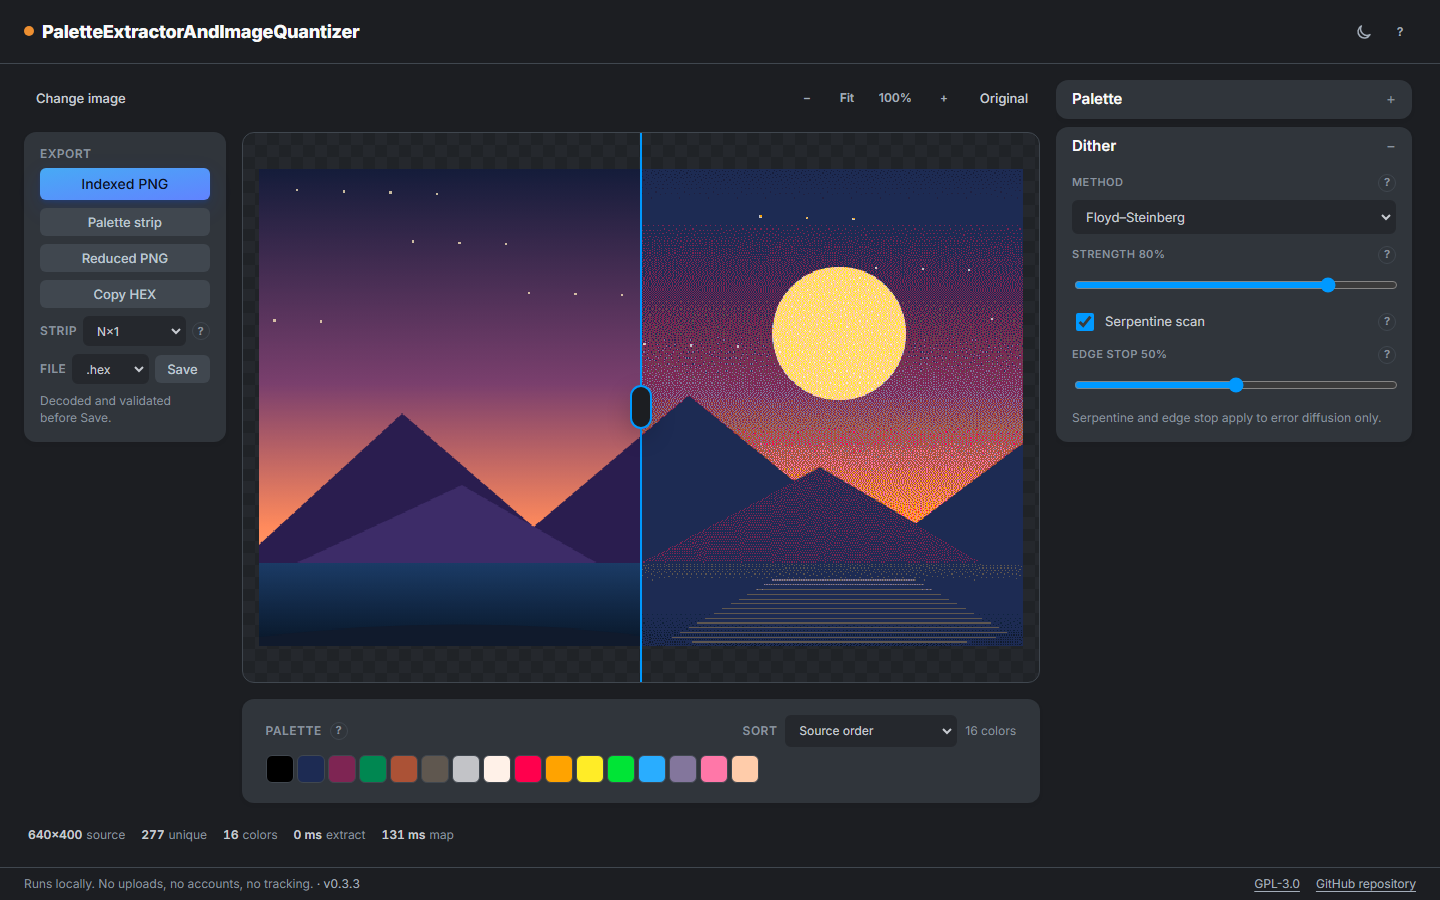
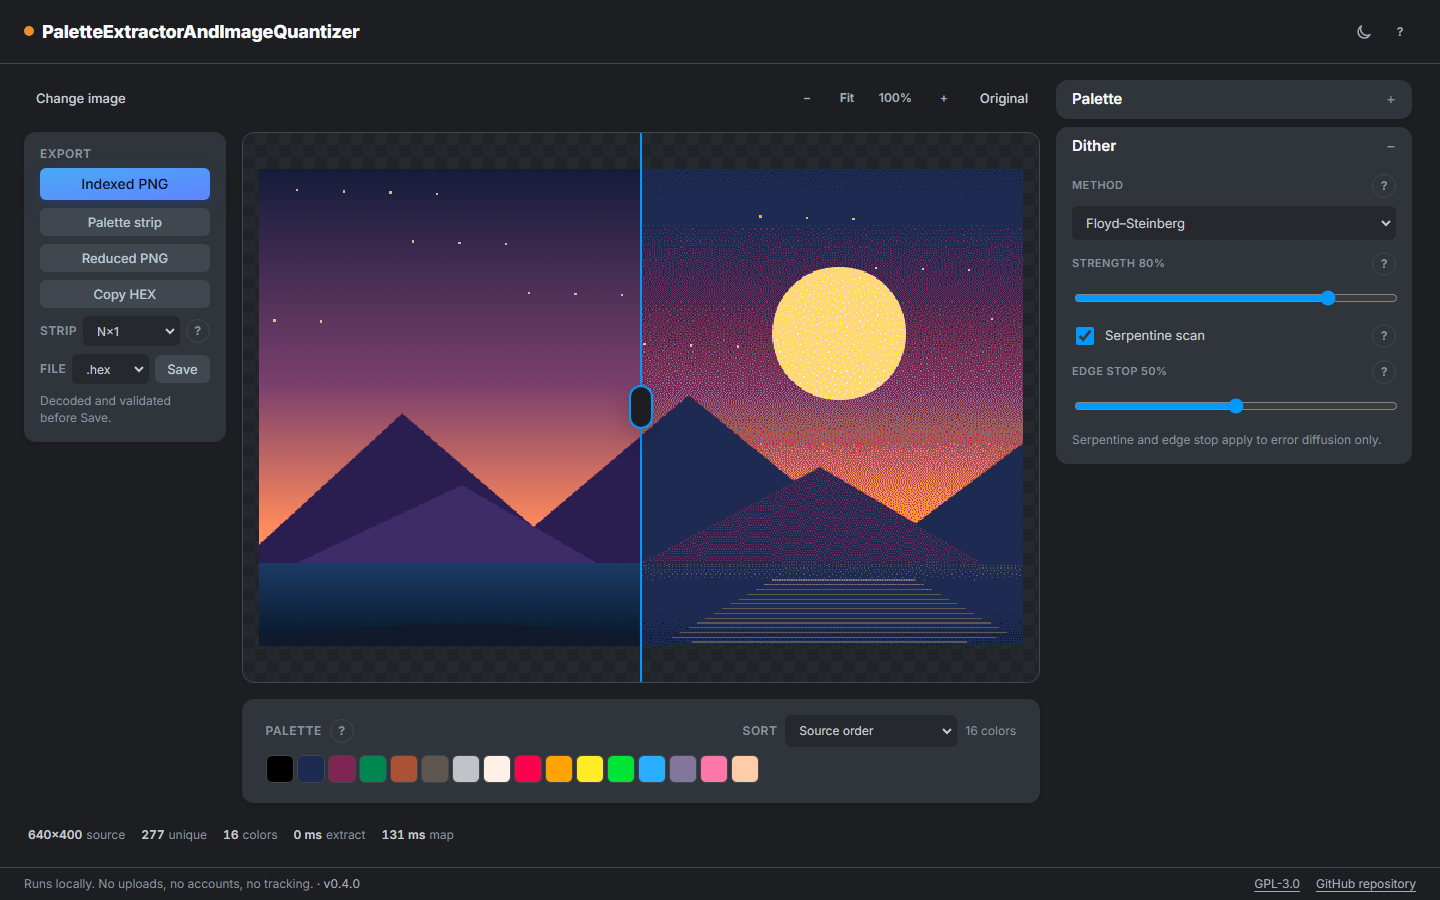
Release 0.4.0
Close M3: palette file exports, mobile/desktop layout, export progress, alpha handling, Help copy, Pages subpath smoke test, and accessibility/performance checks. Increase help-button targets to 24 px (28 px on touch), give the divider slider a 24 px hit area and visible focus, and raise compact range targets to 24 px.

Bump package.json and APP_VERSION to 0.4.0. Tests: 90 passing. Tag v0.4.0 marks this release commit.

Changed region(s): [[0.7188, 0.1867, 1.0, 0.5289]]

diff --git a/css/canvas.css b/css/canvas.css
@@ -47,17 +47,34 @@
   bottom: 0;
   left: 50%;
   z-index: 2;
+  width: 24px;
+  background: transparent;
+  transform: translateX(-50%);
+  pointer-events: none;
+}
+
+.peiq-divider::before {
+  content: "";
+  position: absolute;
+  top: 0;
+  bottom: 0;
+  left: 50%;
   width: 2px;
   background: var(--peiq-accent);
   transform: translateX(-50%);
-  pointer-events: none;
+}
+
+.peiq-divider:focus-visible {
+  outline: 2px solid var(--peiq-focus);
+  outline-offset: 2px;
+  border-radius: var(--peiq-radius-pill);
 }
 
 .peiq-divider__handle {
   position: absolute;
   top: 50%;
   left: 50%;
-  width: 22px;
+  width: 24px;
   height: 44px;
   border: 2px solid var(--peiq-accent);
   border-radius: var(--peiq-radius-pill);
@@ -66,11 +83,6 @@
   transform: translate(-50%, -50%);
   pointer-events: auto;
   cursor: ew-resize;
-}
-
-.peiq-divider__handle:focus-visible {
-  outline: 2px solid var(--peiq-focus);
-  outline-offset: 2px;
 }
 
 .peiq-stage__toolbar .peiq-btn,

diff --git a/css/components.css b/css/components.css
@@ -346,14 +346,14 @@
   display: inline-grid;
   place-items: center;
   flex: 0 0 auto;
-  width: 18px;
-  height: 18px;
+  width: 24px;
+  height: 24px;
   padding: 0;
   border: 1px solid var(--peiq-border-strong);
   border-radius: 50%;
   background: transparent;
   color: var(--peiq-text-tertiary);
-  font: 700 0.6875rem/1 var(--peiq-font-ui);
+  font: 700 0.75rem/1 var(--peiq-font-ui);
   cursor: help;
 }
 
@@ -916,7 +916,7 @@
   }
 
   .peiq-rail .peiq-range {
-    min-height: 22px;
+    min-height: 24px;
   }
 
   .peiq-rail .peiq-label {

diff --git a/js/core/version.js b/js/core/version.js
@@ -6,7 +6,7 @@
  */
 
 /** @type {string} */
-export const APP_VERSION = '0.3.3';
+export const APP_VERSION = '0.4.0';
 
 /**
  * Bump this when a decision-affecting rule changes (tie-break, ordering, hashing, or

diff --git a/css/responsive.css b/css/responsive.css
@@ -123,6 +123,11 @@
     height: 44px;
   }
 
+  .peiq-help {
+    width: 28px;
+    height: 28px;
+  }
+
   .peiq-drawer__header,
   .peiq-drawer__body {
     padding-inline: var(--peiq-space-3);

diff --git a/IMPLEMENTATION_PLAN.md b/IMPLEMENTATION_PLAN.md
@@ -38,8 +38,8 @@ agents; it defers to this plan for *what* to build.
 | Core | Color, histogram, five extractors, refinement, exact/LUT mapping, dithering, PNG index/encode/decode, palettes |
 | UI | Stage + compact collapsible rail, left export column, contextual tooltips, themes, extract/map modes, fixed palettes, dithering, indexed PNG, Help with references and credits |
 | Tests | 90 passing (`node --test`), including golden hashes, dithering, palettes, formats, indexed PNG, alpha, references |
-| Version | `js/core/version.js`; `v0.3.3` tagged; M2 complete |
-| Next | M3: finish the lean v1.0.0 handoff (palette exports, final polish, release) |
+| Version | `js/core/version.js`; `v0.4.0` tagged; M3 complete |
+| Next | M4: release checklist, version `1.0.0`, tag `v1.0.0` |
 
 > **v1.0.0 scope reset (2026-11-14).** The refreshed landscape in
 > [RESEARCH_REPORT.md §4.5](RESEARCH_REPORT.md#45-landscape-refresh-14-nov-2026) shows
@@ -1590,7 +1590,7 @@ Each milestone ends with a demo and green tests. Version bumps: `0.1.0` at M0,
 - [x] Indexed PNG + transparent index + validation
 - **Exit:** sprite mapped to PICO-8; compliance and round-trip green; `0.3.0`.
 
-### M3 — v1.0 closure (current)
+### M3 — v1.0 closure (complete)
 
 - [x] Core extraction, fixed palettes, mapping, dithering
 - [x] Indexed PNG, palette strip, reduced PNG, HEX copy
@@ -1598,12 +1598,12 @@ Each milestone ends with a demo and green tests. Version bumps: `0.1.0` at M0,
 - [x] Tooltips, references, credits, version footer
 - [x] Remove the QA placeholder from the rail
 - [x] Palette-file exports: `.hex`, `.gpl`, `.json`
-- [ ] Responsive, accessibility, browser, and performance pass against §9–§10
-- [ ] README, screenshots, and help copy aligned with the lean scope
-- [ ] GitHub Pages smoke test
+- [x] Responsive, accessibility, browser, and performance pass against §9–§10
+- [x] README, screenshots, and help copy aligned with the lean scope
+- [x] GitHub Pages smoke test
 - **Exit:** lean feature matrix complete; all exports green; `0.4.0`.
 
-### M4 — Release
+### M4 — Release (current)
 
 - [ ] Release checklist §17
 - [ ] Both themes, mobile 360 px, keyboard-only pass
@@ -1723,6 +1723,7 @@ A change is done only when:
 | 2026-11-14 | Release 0.3.3 for the mobile zoom/toolbar, alpha, tooltip, background, and Help fixes | Patch release for the post-0.3.2 batch; tag the version-bump commit |
 | 2026-11-14 | Plan v1.1: minimal palette editor + locks, ΔE00 summary/error map, URL state | Owner selected the few post-1.0 features with direct workflow value; roles, presets, swap, and manifest remain later |
 | 2026-11-14 | Add `.hex`, `.gpl`, and `.json` palette-file exports with parse-back validation | Completes the v1.0 palette handoff without adding the deferred format set |
+| 2026-11-14 | Release 0.4.0: M3 complete, palette exports, accessibility/Pages/performance pass | Closes the lean v1.0 feature scope before the 1.0.0 release checklist |
 
 ---
 

diff --git a/AGENTS.md b/AGENTS.md
@@ -260,14 +260,14 @@ and the change is committed locally with a descriptive body (plan §16).
 ## 12. Current state and next task
 
 - Plan: ✅ `1.0.0`; `DESIGN.md` ✅ (dark + light themes, auto + 3-state toggle);
-  M0 ✅ `v0.1.0`; M1 ✅ `v0.2.2`; M2 ✅ `v0.3.0`; latest `v0.3.3` (90 tests).
+  M0 ✅ `v0.1.0`; M1 ✅ `v0.2.2`; M2 ✅ `v0.3.0`; latest `v0.4.0` (90 tests).
 - Working: five extractors, fixed palettes + import, exact/LUT mapping, ED/Bayer/blue-noise
   dithering, indexed PNG with `tRNS`, strip/reduced and `.hex`/`.gpl`/`.json` exports,
   themes, fixed desktop
   frame with a scrollable rail, left export column, contextual tooltips, Help drawer with
   references and credits, LAN dev-server URLs.
-- Next: M3 — final v1.0 polish: accessibility/performance pass, README/help review,
-  Pages smoke test; then `0.4.0`.
+- Next: M4 — release checklist, both themes/mobile/keyboard pass, version `1.0.0`,
+  tag `v1.0.0`.
 - Do not assume UI files are missing: `index.html`, `css/`, `js/ui/`, and the worker exist.
 - The public name is fixed to the repository name; the short mark is `PEIQ`.
 
